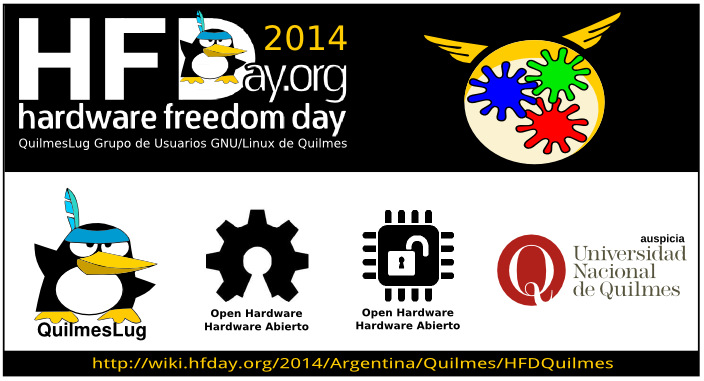
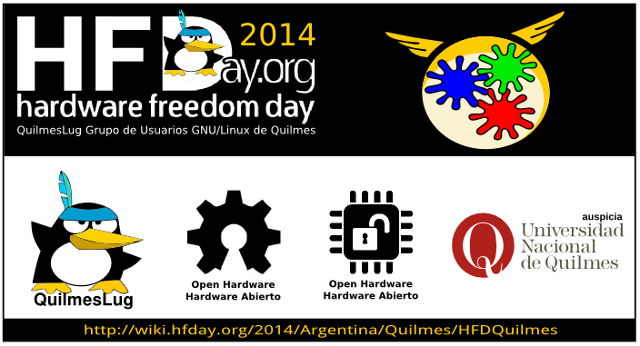
@ 00:05 hs - optimizo imágenes según gtmetrix y corrijo CSS

diff --git a/linux-sysadmin.html b/linux-sysadmin.html
@@ -7,7 +7,8 @@
 <meta  http-equiv="Content-Type" content="text/html;charset=utf-8" />
 <meta  name="generator" content="Org-mode" />
 <meta  name="author" content="Osiris Alejandro Gómez" />
-<link rel="stylesheet" type="text/css" href="print.css" media="print"> />
+<link rel="stylesheet" href="osiux.css" type="text/css" />
+<link rel="stylesheet" type="text/css" href="print.css" media="print" />
 </head>
 <body>
 <div id="content">
